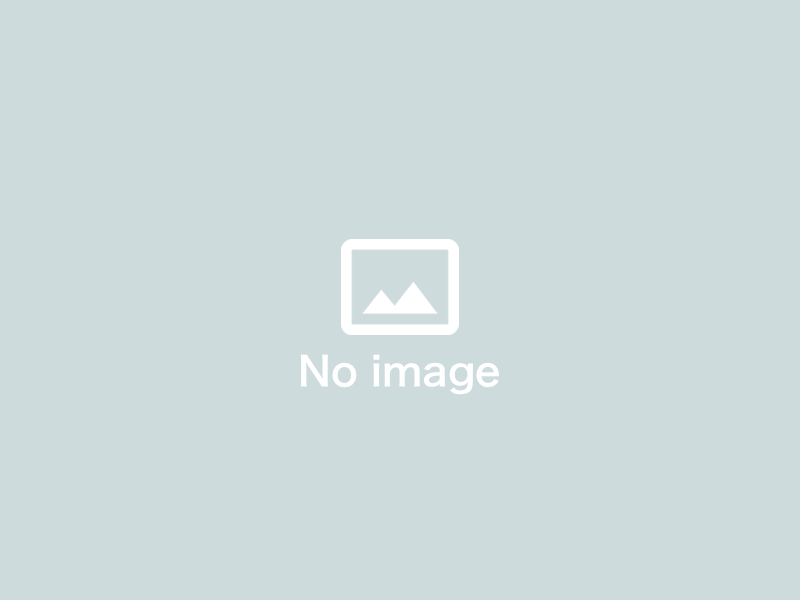
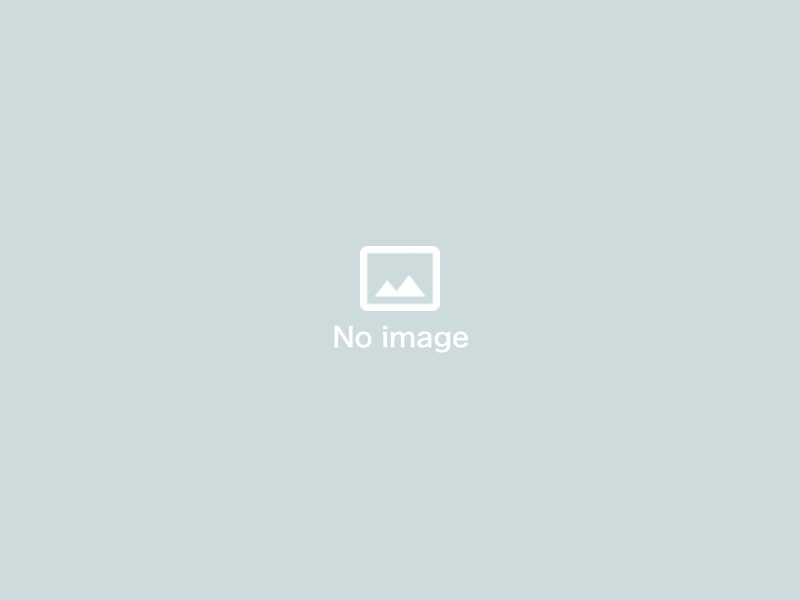
add list view no-image

Changed region(s): [[0.375, 0.39, 0.625, 0.66]]

diff --git a/src/frontend/stores/channel.js b/src/frontend/stores/channel.js
@@ -22,10 +22,6 @@ export default {
 
       const pages = payload.pages
       pages.forEach((page, i) => {
-        // サムネイルが設定されていない場合はここで代替
-        if (!page.thumbnail) {
-          page.thumbnail = "/images/no-image.png";
-        }
         const scores = page.scores
         scores.forEach((score) => {
           if (score.score >= 5) {
@@ -58,6 +54,10 @@ export default {
 
       selections.forEach((index, i)=>{
         if (i == 0){
+          // サムネイルが設定されていない場合はここで代替
+          if (!pages[index].thumbnail) {
+            page[index].thumbnail = "/images/no-image.png";
+          }
           state.top.main = pages[index]
         }else{
           state.top.sub.push(pages[index])
@@ -66,6 +66,9 @@ export default {
       const _pages = []
       pages.forEach((page, i) => {
         if (!selections.includes(i)) {
+          if (!page.thumbnail) {
+            page.thumbnail = "/images/no-image-big.png";
+          }
           _pages.push(page)
         }
       })

diff --git a/src/frontend/components/NewsList.vue b/src/frontend/components/NewsList.vue
@@ -62,7 +62,7 @@
         <div class="page-section" v-bind:key="page._id">
           <div class="thumbnail-box">
             <a v-bind:href="page.url" target="_blank">
-              <img v-bind:src="page.thumbnail" @error="imageLoadError"/>
+              <img v-bind:src="page.thumbnail" @error="listImageLoadError"/>
             </a>
           </div>
           <div class="text-box">
@@ -123,7 +123,10 @@ export default {
   methods: {
     imageLoadError (el) {
       el.target.src = "/images/no-image.png";
-    }
+    },
+    listImageLoadError (el) {
+      el.target.src = "/images/no-image-big.png";
+    },
   }
 };
 </script>
